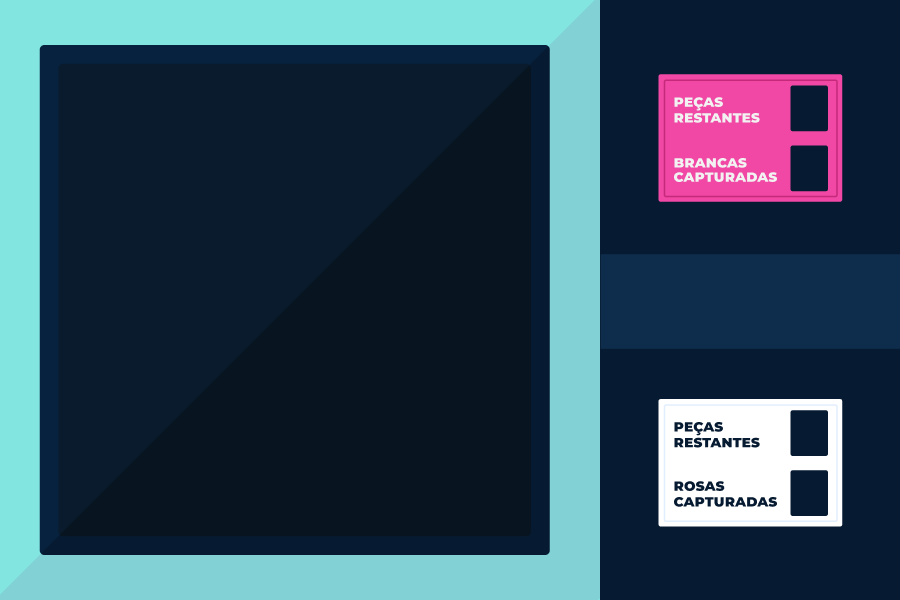
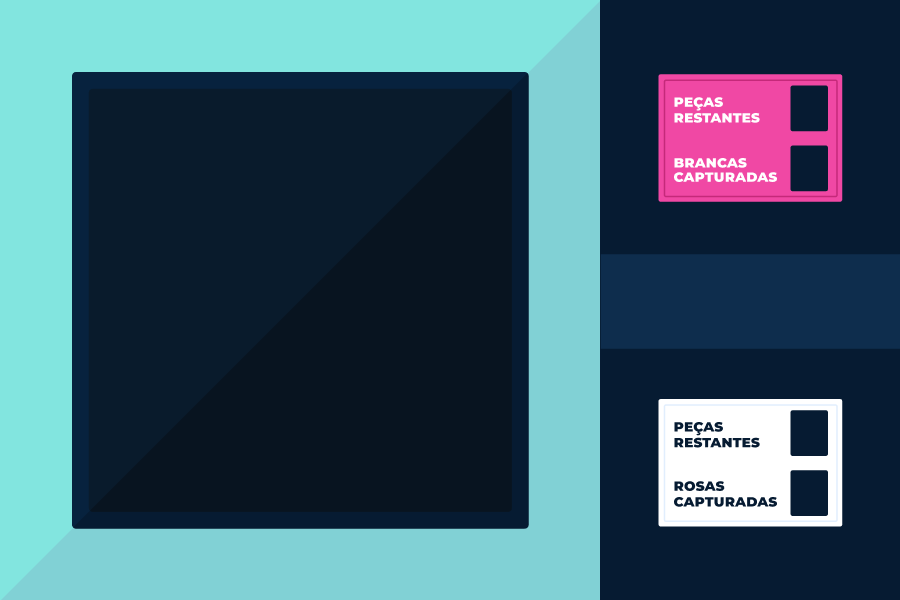
Tela de Jogo

Changed region(s): [[0.0311, 0.06, 0.6222, 0.93]]

diff --git a/ui/telas.py b/ui/telas.py
@@ -5,13 +5,23 @@ from .botao import Botao
 from classes.controlador import Controlador
 from classes.tabuleiro import Tabuleiro
 
-def tela_jogo(tela):
-    controlador = Controlador(tela)
-    clock = pygame.time.Clock()
+# FUNCAO APENAS PARA TESTE
+def tela_vencedor(tela, vencedor):
+    tela.fill(AZUL_CLARO)
+    fonte = pygame.font.SysFont('Montserrat', 40)
+    if vencedor == BRANCO:
+        texto = 'BRANCO VENCEU!'
+    elif vencedor == ROSA:
+        texto = 'ROSA VENCEU!'
+    else:
+        texto = 'EMPATE'
+    render_texto = fonte.render(texto, True, ROSA)
+    tela.blit(render_texto, (TELA_LARGURA//2 - render_texto.get_width()//2, TELA_ALTURA//2 - render_texto.get_height()//2))
 
-    tabuleiro = pygame.Surface((LARGURA, ALTURA))
-    tabuleiro.fill(CINZA)
-    rect = tabuleiro.get_rect()
+def tela_jogo(tela, tabuleiro):
+    clock = pygame.time.Clock()
+    rect = tabuleiro.get_rect(topleft=(101, 100))
+    controlador = Controlador(tabuleiro)
     
     fechar_tela = False
     while not fechar_tela:
@@ -22,50 +32,32 @@ def tela_jogo(tela):
                 pygame.quit()
             if evento.type == pygame.MOUSEBUTTONDOWN:
                 posicao = pygame.mouse.get_pos()
-                linha, coluna = obtem_clique(posicao)
-                controlador.gerencia_clique(linha, coluna)
+                resultado = obtem_clique(posicao, (LARGURA, ALTURA), offset=(101, 100))
+                if resultado != None:
+                    linha, coluna = resultado
+                    controlador.gerencia_clique(linha, coluna)
+                else:
+                    pass # Clique fora do tabuleiro pode ignora
+
+        controlador.atualiza_jogo()
 
         # Background e Tabuleiro
         tela.blit(BG_TELA_JOGO, (0, 0))
         tela.blit(tabuleiro, rect)
 
         # Textos
-        tabuleiro_objeto = Tabuleiro()
-        rosas_restantes, brancas_restantes = tabuleiro_objeto.retorna_qnt_pecas()
-        
-        """
         rosas_restantes = controlador.tabuleiro.pecas_rosas
         brancas_restantes = controlador.tabuleiro.pecas_brancas
-        """
         
-        desenha_texto(str(rosas_restantes), FONTE_PLACAR, BRANCO, 798, 94, tela) # peças rosas restantes
-        desenha_texto(str(12 - brancas_restantes), FONTE_PLACAR, BRANCO, 798, 155, tela) # peças brancas capturadas
-        desenha_texto(str(brancas_restantes), FONTE_PLACAR, BRANCO, 798, 420, tela) # peças brancas restantes
-        desenha_texto(str(12 - rosas_restantes), FONTE_PLACAR, BRANCO, 798, 480, tela) # peças rosas capturadas
-
-        desenha_texto('TURNO', FONTE_GRANDE, BRANCO, 695, 270, tela) # turno
-        turno, cor = '', ''
-        if controlador.turno_atual() == (255, 255, 255):
-            turno = 'BRANCO'
-            cor = BRANCO
-        else:
-            turno = 'ROSA'
-            cor = ROSA
-
-        """
+        pontuacao_placar(rosas_restantes, brancas_restantes, tela)
         cor = controlador.turno
-        if cor == BRANCO: 
-            turno = 'BRANCO'
-        else:
-            turno = 'ROSA'
-        """
+        turno(tela, cor)
 
-        desenha_texto(turno, FONTE_GRANDE, cor, 707, 300, tela) # cor do turno
+        if brancas_restantes == 0 or rosas_restantes == 0:
+            tela_vencedor(tela, controlador.vencedor)
 
-        controlador.atualiza_jogo()
         clock.tick(FPS)
         pygame.display.update()
-
 
 def tela_regras(tela):
     fechar_tela = False
@@ -82,7 +74,7 @@ def tela_regras(tela):
         pygame.display.update()
         
 
-def tela_inicial(tela):
+def tela_inicial(tela, tabuleiro):
     rodando = True
     while rodando:
         tela.blit(BG_TELA_INICIAL, (0, 0))
@@ -107,7 +99,7 @@ def tela_inicial(tela):
                 rodando = False
             if evento.type == pygame.MOUSEBUTTONDOWN:
                 if botao_jogar.verifica_posicao(posicao_mouse_menu):
-                    tela_jogo(tela) 
+                    tela_jogo(tela, tabuleiro) 
                 if botao_regras.verifica_posicao(posicao_mouse_menu):
                     tela_regras(tela)
                 if botao_sair.verifica_posicao(posicao_mouse_menu):

diff --git a/functions.py b/functions.py
@@ -1,11 +1,54 @@
 from config import *
+    
+def obtem_clique(posicao, limites_tabuleiro, offset=(0, 0)):
+    largura, altura = limites_tabuleiro
+    x, y = posicao
+    offset_x, offset_y = offset
 
-def obtem_clique(pos):
-    x, y = pos
-    linha = y // TAMANHO_QUADRADO
-    coluna = x // TAMANHO_QUADRADO
-    return linha, coluna
+    x_relativo = x - offset_x
+    y_relativo = y - offset_y
+    
+    if 0 <= x_relativo < largura and 0 <= y_relativo < altura:
+        linha = y_relativo // TAMANHO_QUADRADO
+        coluna = x_relativo // TAMANHO_QUADRADO
+        return linha, coluna
+    return None
 
-def desenha_texto(texto, fonte, cor, x, y, tela):
-	img = fonte.render(texto, True, cor)
-	tela.blit(img, (x, y))
+def pontuacao_placar(rosas_restantes, brancas_restantes, tela):
+    '''------------------------- PLACAR ROSA -------------------------'''
+    # PEÇAS ROSAS RESTANTES
+    base_r_restantes = pygame.Rect(792, 92, 35, 30)
+    texto_r_restantes = FONTE_PLACAR.render(str(rosas_restantes), True, BRANCO)
+    rect_r_restantes = texto_r_restantes.get_rect(center=base_r_restantes.center)
+    tela.blit(texto_r_restantes, rect_r_restantes) 
+
+    # PEÇAS BRANCAS CAPTURADAS
+    base_b_capturadas = pygame.Rect(792, 153, 35, 30)
+    texto_b_capturadas = FONTE_PLACAR.render(f'{12 - brancas_restantes}', True, BRANCO)
+    rect_b_capturadas = texto_b_capturadas.get_rect(center=base_b_capturadas.center)
+    tela.blit(texto_b_capturadas, rect_b_capturadas) 
+
+    '''------------------------ PLACAR BRANCO ------------------------'''
+    # PEÇAS BRANCAS RESTANTES
+    base_b_restantes = pygame.Rect(792, 418, 35, 30)
+    texto_b_restantes = FONTE_PLACAR.render(str(brancas_restantes), True, BRANCO)
+    rect_b_restantes = texto_b_restantes.get_rect(center=base_b_restantes.center)
+    tela.blit(texto_b_restantes, rect_b_restantes) 
+
+    # PEÇAS ROSAS CAPTURADAS
+    base_r_capturadas = pygame.Rect(792, 478, 35, 30)
+    texto_r_capturadas = FONTE_PLACAR.render(f'{12 - rosas_restantes}', True, BRANCO)
+    rect_r_capturadas = texto_r_capturadas.get_rect(center=base_r_capturadas.center)
+    tela.blit(texto_r_capturadas, rect_r_capturadas)
+
+def turno(tela, cor):
+    label_turno = FONTE_GRANDE.render('TURNO', True, BRANCO)
+    if cor == BRANCO: 
+        turno = 'BRANCO'
+    else:
+        turno = 'ROSA'
+    base_turno = pygame.Rect(740, 265, 30, 100) # base para centralizar
+    texto_turno = FONTE_GRANDE.render(turno, True, cor) # texto
+    rect_turno = texto_turno.get_rect(center=base_turno.center) # base para movimentar o texto e centralizar na base
+    tela.blit(label_turno, (700, 270)) 
+    tela.blit(texto_turno, rect_turno) 

diff --git a/classes/controlador.py b/classes/controlador.py
@@ -14,14 +14,6 @@ class Controlador:
         self.turno = BRANCO
         self.movimentos_validos = {}
 
-    def verifica_vitoria(self):
-        if self.tabuleiro.pecas_brancas == 0 and self.tabuleiro.damas_brancas == 0:
-            return ROSA
-        elif self.tabuleiro.pecas_rosas == 0 and self.tabuleiro.damas_rosas == 0:
-            return BRANCO
-        # OPCAO PARA SEM SAIR
-        return None
-
     def atualiza_jogo(self):
         self.tabuleiro.monta_tabuleiro(self.janela)
         if self.peca_selecionada:
@@ -32,12 +24,16 @@ class Controlador:
             self.vencedor = self.verifica_vitoria()
         pygame.display.update()
 
+    def verifica_vitoria(self):
+        if self.tabuleiro.pecas_brancas == 0 and self.tabuleiro.damas_brancas == 0:
+            return ROSA
+        elif self.tabuleiro.pecas_rosas == 0 and self.tabuleiro.damas_rosas == 0:
+            return BRANCO
+        # OPCAO PARA SEM SAIR
+        return None
+
     def resetar_jogo(self):
         self._init()
-
-    # não precisa
-    def turno_atual(self):
-        return self.turno
 
     def _mover(self, linha, coluna):
         peca_mover = self.peca_selecionada
@@ -54,7 +50,6 @@ class Controlador:
     def mudar_turno(self):
         self.peca_selecionada = None
         self.movimentos_validos = {}
-
         if self.turno == BRANCO:
             self.turno = ROSA
         else:
@@ -64,7 +59,6 @@ class Controlador:
         if (linha, coluna) in self.movimentos_validos:
             self._mover(linha, coluna)
             return
-        
         peca = self.tabuleiro.obtem_peca(linha, coluna)
         if peca != 0 and peca.cor == self.turno:
             self.peca_selecionada = peca
@@ -87,14 +81,3 @@ class Controlador:
             x = coluna * TAMANHO_QUADRADO 
             y = linha * TAMANHO_QUADRADO
             pygame.draw.rect(janela, AZUL_CLARO, (x, y, TAMANHO_QUADRADO, TAMANHO_QUADRADO))
-    
-    # FUNCAO APENAS PARA TESTE
-    def tela_vencedor(self, vencedor):
-        self.janela.fill(AZUL_CLARO)
-        fonte = pygame.font.SysFont('Montserrat', 40)
-        if vencedor == BRANCO:
-            texto = 'BRANCO VENCEU!'
-        else:
-            texto = 'ROSA VENCEU!'
-        render_texto = fonte.render(texto, True, vencedor)
-        self.janela.blit(render_texto, (LARGURA//2 - render_texto.get_width()//2, ALTURA//2 - render_texto.get_height()//2))

diff --git a/classes/tabuleiro.py b/classes/tabuleiro.py
@@ -10,8 +10,7 @@ class Tabuleiro:
         self.desenha_tabuleiro()
 
     def desenha_quadrados(self, janela):
-        #janela.fill(CINZA)
-        #rect_tabuleiro = pygame.Rect(0,0,LARGURA,ALTURA)
+        janela.fill(CINZA)
         for linha in range(LINHAS):
             for coluna in range(linha % 2, COLUNAS, 2):
                 pygame.draw.rect(janela, BRANCO, (linha * TAMANHO_QUADRADO, coluna * TAMANHO_QUADRADO, TAMANHO_QUADRADO, TAMANHO_QUADRADO))
@@ -55,10 +54,6 @@ class Tabuleiro:
     def obtem_peca(self, linha, coluna):
         return self.tabuleiro[linha][coluna]
     
-    # não precisa
-    def retorna_qnt_pecas(self):
-        return (self.pecas_rosas, self.pecas_brancas)
-    
     def remover(self, pecas):
         for peca in pecas:
             self.tabuleiro[peca.linha][peca.coluna] = 0
@@ -77,7 +72,6 @@ class Tabuleiro:
     def movimentos_validos(self, peca):
         """ Gerencia a obtenção de movimentos válidos.  """
         movimentos = {}
-        
         if peca.eh_dama:
             movimentos = self._movimentos_dama(peca)
         else:
@@ -127,7 +121,7 @@ class Tabuleiro:
     def _movimentos_dama(self, peca):
         """ Calcula os movimentos para uma Dama """
         movimentos = {}
-        direcoes = [(-1, -1), (-1, 1), (1, -1), (1,1)]
+        direcoes = [(-1, -1), (-1, 1), (1, -1), (1, 1)]
 
         for d_linha, d_coluna in direcoes:
             movimentos.update(self._verifica_diagonal(peca, d_linha, d_coluna))

diff --git a/main.py b/main.py
@@ -2,9 +2,11 @@ import pygame
 from config import *
 from ui.telas import *
 
-pygame.font.init()
 janela = pygame.display.set_mode((TELA_LARGURA, TELA_ALTURA))
 pygame.display.set_caption('Damas')
+
+tabuleiro = pygame.Surface((LARGURA, ALTURA))
+pygame.font.init()
 
 def main():
     relogio = pygame.time.Clock() 
@@ -16,7 +18,7 @@ def main():
             if evento.type == pygame.QUIT:
                 rodando = False
             
-            tela_inicial(janela)
+            tela_inicial(janela, tabuleiro)
     pygame.quit()
     
 main()

diff --git a/classes/peca.py b/classes/peca.py
@@ -28,10 +28,10 @@ class Peca:
     def vira_dama(self):
         self.eh_dama = True
 
+    def __repr__(self):
+        return str(self.cor)
+
     def mover(self, linha, coluna):
         self.linha = linha
         self.coluna = coluna
         self.calcula_posicao()
-
-    def __repr__(self):
-        return str(self.cor)
